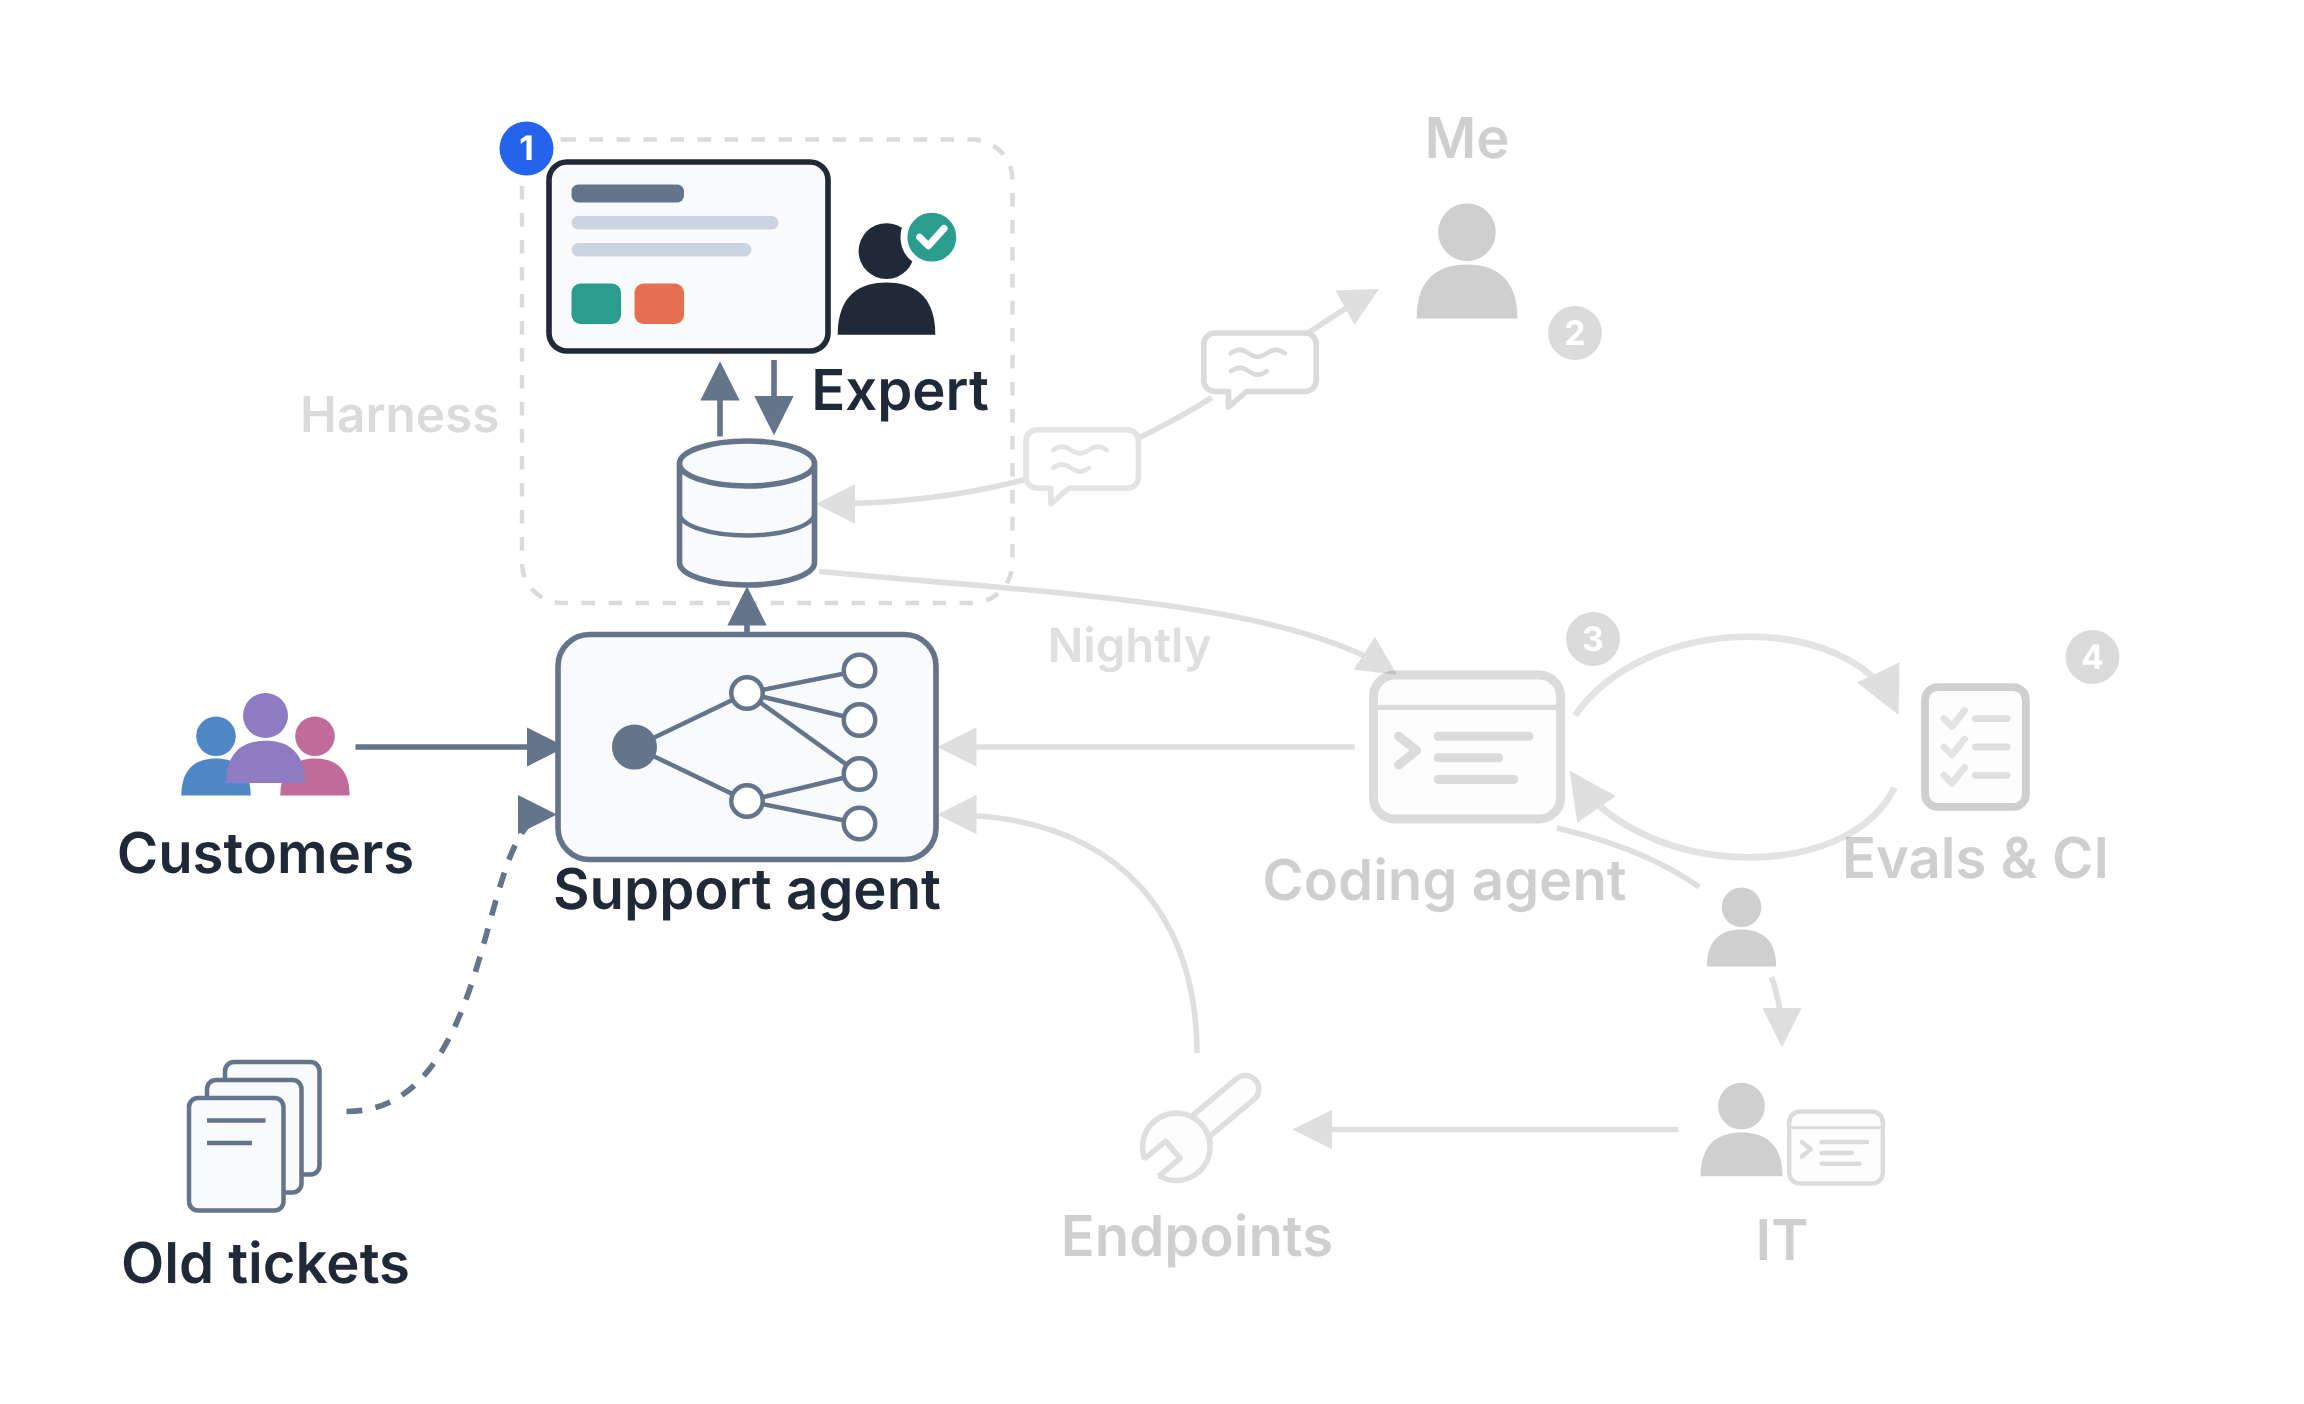
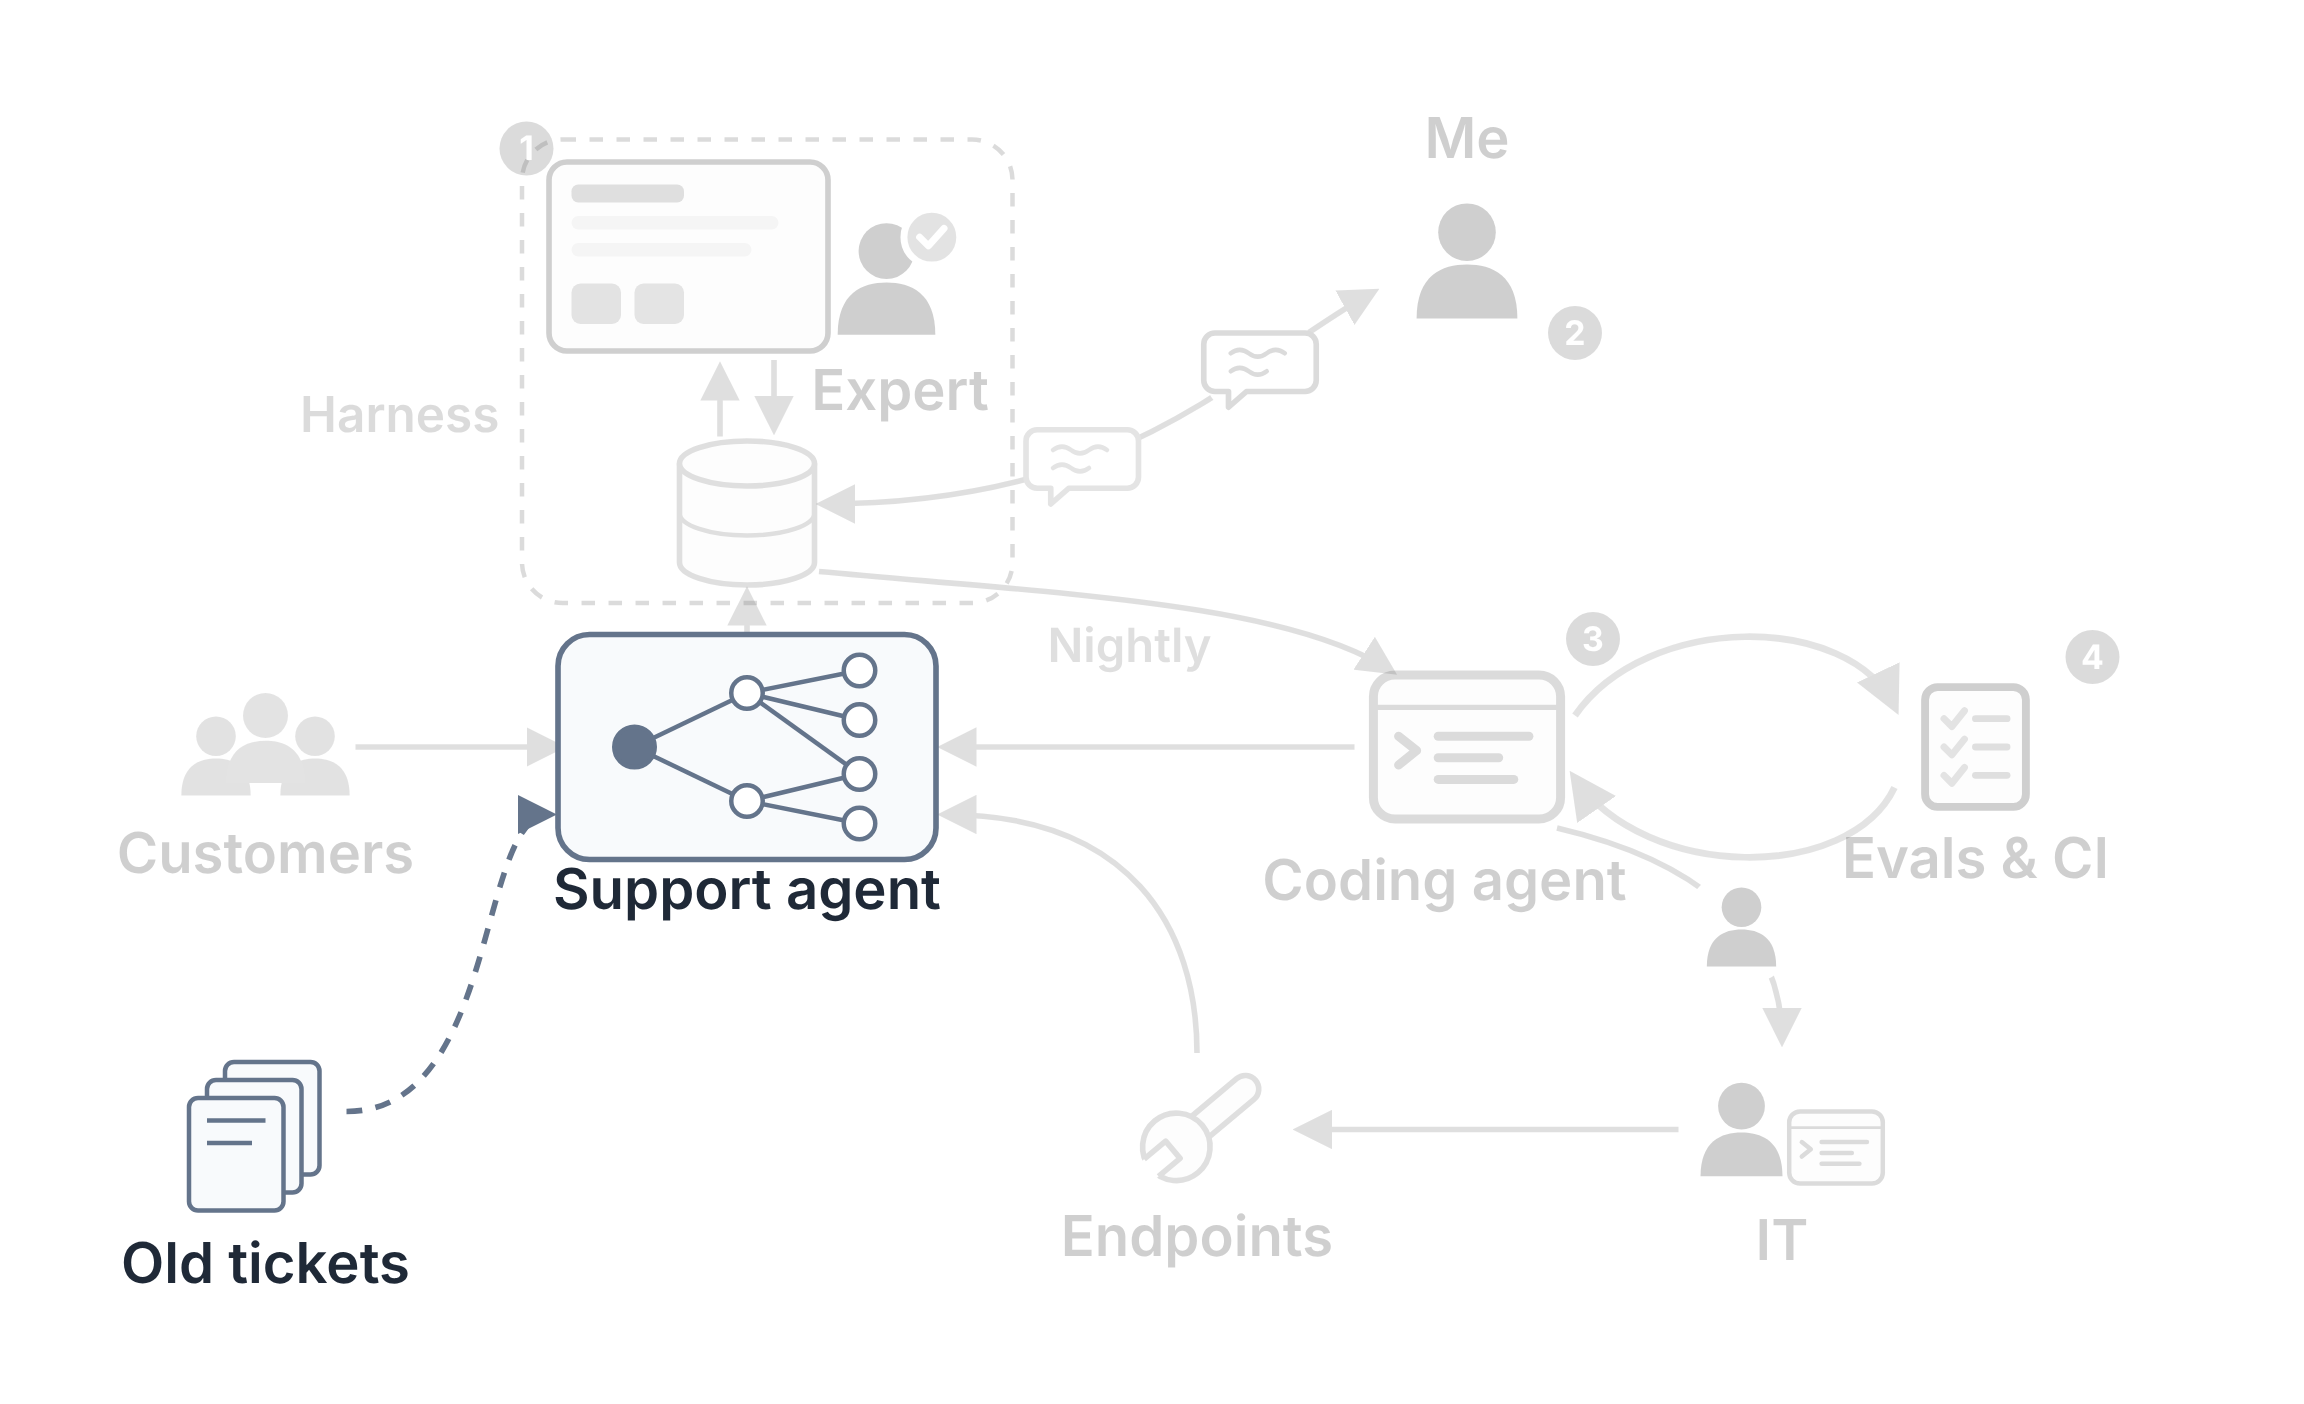
Walk through the loop one step and one small map at a time
"The loop we built" lit up nearly the whole map at once. It now opens
with only the drafts landing in the harness, and each of the four steps
gets its own heading and a map that highlights just that step: the
expert grading, my comment on the fix, the nightly run, evals and CI.
The animation closes the section as the whole loop in motion.

"Get into shadow deployment sooner" now highlights only the old tickets
replayed through the support agent, with no expert to grade them.

Claude-Session: https://claude.ai/code/session_01QWCehSvL9kNTSDMZrThzYG

Changed region(s): [[0.2188, 0.0919, 0.4375, 0.4594], [0.0625, 0.49, 0.25, 0.6432]]

diff --git a/src/components/SystemMap.tsx b/src/components/SystemMap.tsx
@@ -54,8 +54,6 @@ export interface Preset {
   description: string;
 }
 
-const LOOP: Preset['focus'] = ['support', 'drafts', 'store', 'review', 'expert', 'graded', 'harness', 'comment', 'me', 'nightly', 'coder', 'compile', 'tests', 'ships'];
-const SHADOW_PATH: Preset['focus'] = ['customers', 'messages', 'support', 'drafts', 'store', 'review', 'expert', 'graded'];
 
 export const PRESETS = {
   overview: {
@@ -73,11 +71,31 @@ export const PRESETS = {
     small: true,
     description: 'Highlighted: customer messages, the support agent that drafts the replies, and the expert, the only verdict a reply can get.',
   },
-  loop: {
-    focus: LOOP,
+  // "The loop we built": where the drafts land, then one map per step.
+  harness: {
+    focus: ['support', 'drafts', 'store', 'harness'],
     small: true,
-    description:
-      'Highlighted: the loop. 1, the expert grades a draft in the review screen and the grade and comment are stored; 2, I read them and store a comment on how to fix it; 3, the coding agent implements it in its nightly run; 4, evals and CI check it; then it ships into the support agent.',
+    description: 'Highlighted: in shadow, the support agent’s drafts land in the feedback store, inside the harness I built around it and the review screen.',
+  },
+  grade: {
+    focus: ['expert', 'review', 'graded', 'store'],
+    small: true,
+    description: 'Highlighted: step 1, the expert grades a draft in the review screen; grade and comment go into the store.',
+  },
+  specify: {
+    focus: ['store', 'comment', 'me'],
+    small: true,
+    description: 'Highlighted: step 2, I read the expert’s comment from the store and store my own on how to fix it.',
+  },
+  implement: {
+    focus: ['store', 'nightly', 'coder'],
+    small: true,
+    description: 'Highlighted: step 3, the coding agent’s nightly run takes the tickets I commented on from the store and implements them.',
+  },
+  check: {
+    focus: ['coder', 'compile', 'tests'],
+    small: true,
+    description: 'Highlighted: step 4, evals and CI check the coding agent’s change, the same check a coding agent gets on every attempt.',
   },
   // The two maps of "The bottleneck moves": who writes the code, and where the bottleneck sits.
   before: {
@@ -99,9 +117,9 @@ export const PRESETS = {
       'Highlighted: the coding agent writes a spec, I hand it to IT, and IT builds the endpoint, which becomes the support agent’s read tool. The handoff to IT adds a wait.',
   },
   shadow: {
-    focus: [...SHADOW_PATH, 'tickets', 'replay'],
+    focus: ['tickets', 'replay', 'support'],
     small: true,
-    description: 'Highlighted: live customer messages through the support agent to the expert, and old tickets replayed offline.',
+    description: 'Highlighted: old tickets replayed through the support agent offline, with no expert to grade the replies.',
   },
   'review-screen': {
     focus: ['expert', 'review', 'graded', 'harness'],
@@ -122,7 +140,7 @@ export const PRESETS = {
     description: 'Highlighted: an agent with skills reading the stored feedback and commenting on how to fix it, where I used to; the coding agent picks it up at night.',
   },
   start: {
-    focus: [...SHADOW_PATH, 'harness'],
+    focus: ['customers', 'messages', 'support', 'drafts', 'store', 'review', 'expert', 'graded', 'harness'],
     tags: [{ on: 'expert', text: 'Build first' }],
     small: true,
     description: 'Highlighted: the shadow path, the store and the expert’s review screen, the first thing to build.',

diff --git a/tests/system-map.spec.ts b/tests/system-map.spec.ts
@@ -5,19 +5,20 @@ const POST = '/post/the-missing-compiler';
 test.describe('System map in The Missing Compiler', () => {
   test('every section opens with the map, its part highlighted', async ({ page }) => {
     await page.goto(POST);
-    const sections = page.locator('.prose h2');
+    const headings = page.locator('.prose h2, .prose h3');
     const maps = page.locator('figure.system-map');
-    await expect(maps).toHaveCount(12);
-    // One under every section heading, plus the second one in "The bottleneck moves" (today, after
-    // before) and in "The next bottleneck" (what it could be).
-    expect(await maps.count()).toBe((await sections.count()) + 2);
+    await expect(maps).toHaveCount(16);
+    // One under every section and step heading, plus the second one in "The bottleneck moves"
+    // (today, after before) and in "The next bottleneck" (what it could be).
+    expect(await maps.count()).toBe((await headings.count()) + 2);
 
     // The overview greys nothing out; a section's map greys out the rest.
     const greyed = (i: number) => maps.nth(i).locator('g[opacity="0.22"]').count();
     expect(await greyed(0)).toBe(0);
     expect(await greyed(1)).toBeGreaterThan(0);
     // Both layouts carry the tag; only the one that fits the width is shown.
-    await expect(maps.nth(4).locator('svg:visible').getByText('Bottleneck')).toBeVisible();
+    const before = page.locator('figure.system-map[data-confluence-png$="/map-before.png"]');
+    await expect(before.locator('svg:visible').getByText('Bottleneck')).toBeVisible();
   });
 
   test('the mockups follow the site theme', async ({ page }) => {

diff --git a/tests/confluence-copy.spec.ts b/tests/confluence-copy.spec.ts
@@ -20,7 +20,7 @@ test.describe('Confluence copy of a post', () => {
       expect(url).toMatch(/^https:\/\//);
     }
     expect(urls).toContain('https://danielfridljand.de/images/blog/the-missing-compiler/shadow-timeline.png');
-    expect(urls).toContain('https://danielfridljand.de/images/blog/the-missing-compiler/map-loop.png');
+    expect(urls).toContain('https://danielfridljand.de/images/blog/the-missing-compiler/map-grade.png');
     // Themed figures paste their light version only.
     expect(urls).toContain('https://danielfridljand.de/images/blog/the-missing-compiler/sme-review-screen.png');
     expect(urls).not.toContain('https://danielfridljand.de/images/blog/the-missing-compiler/sme-review-screen-dark.png');
@@ -29,6 +29,6 @@ test.describe('Confluence copy of a post', () => {
   test('the post itself keeps its drawn figures', async ({ page }) => {
     await page.goto(POST);
     await expect(page.locator('.shadow-timeline svg')).toHaveCount(1);
-    await expect(page.locator('figure.system-map svg.map-wide')).toHaveCount(12);
+    await expect(page.locator('figure.system-map svg.map-wide')).toHaveCount(16);
   });
 });
